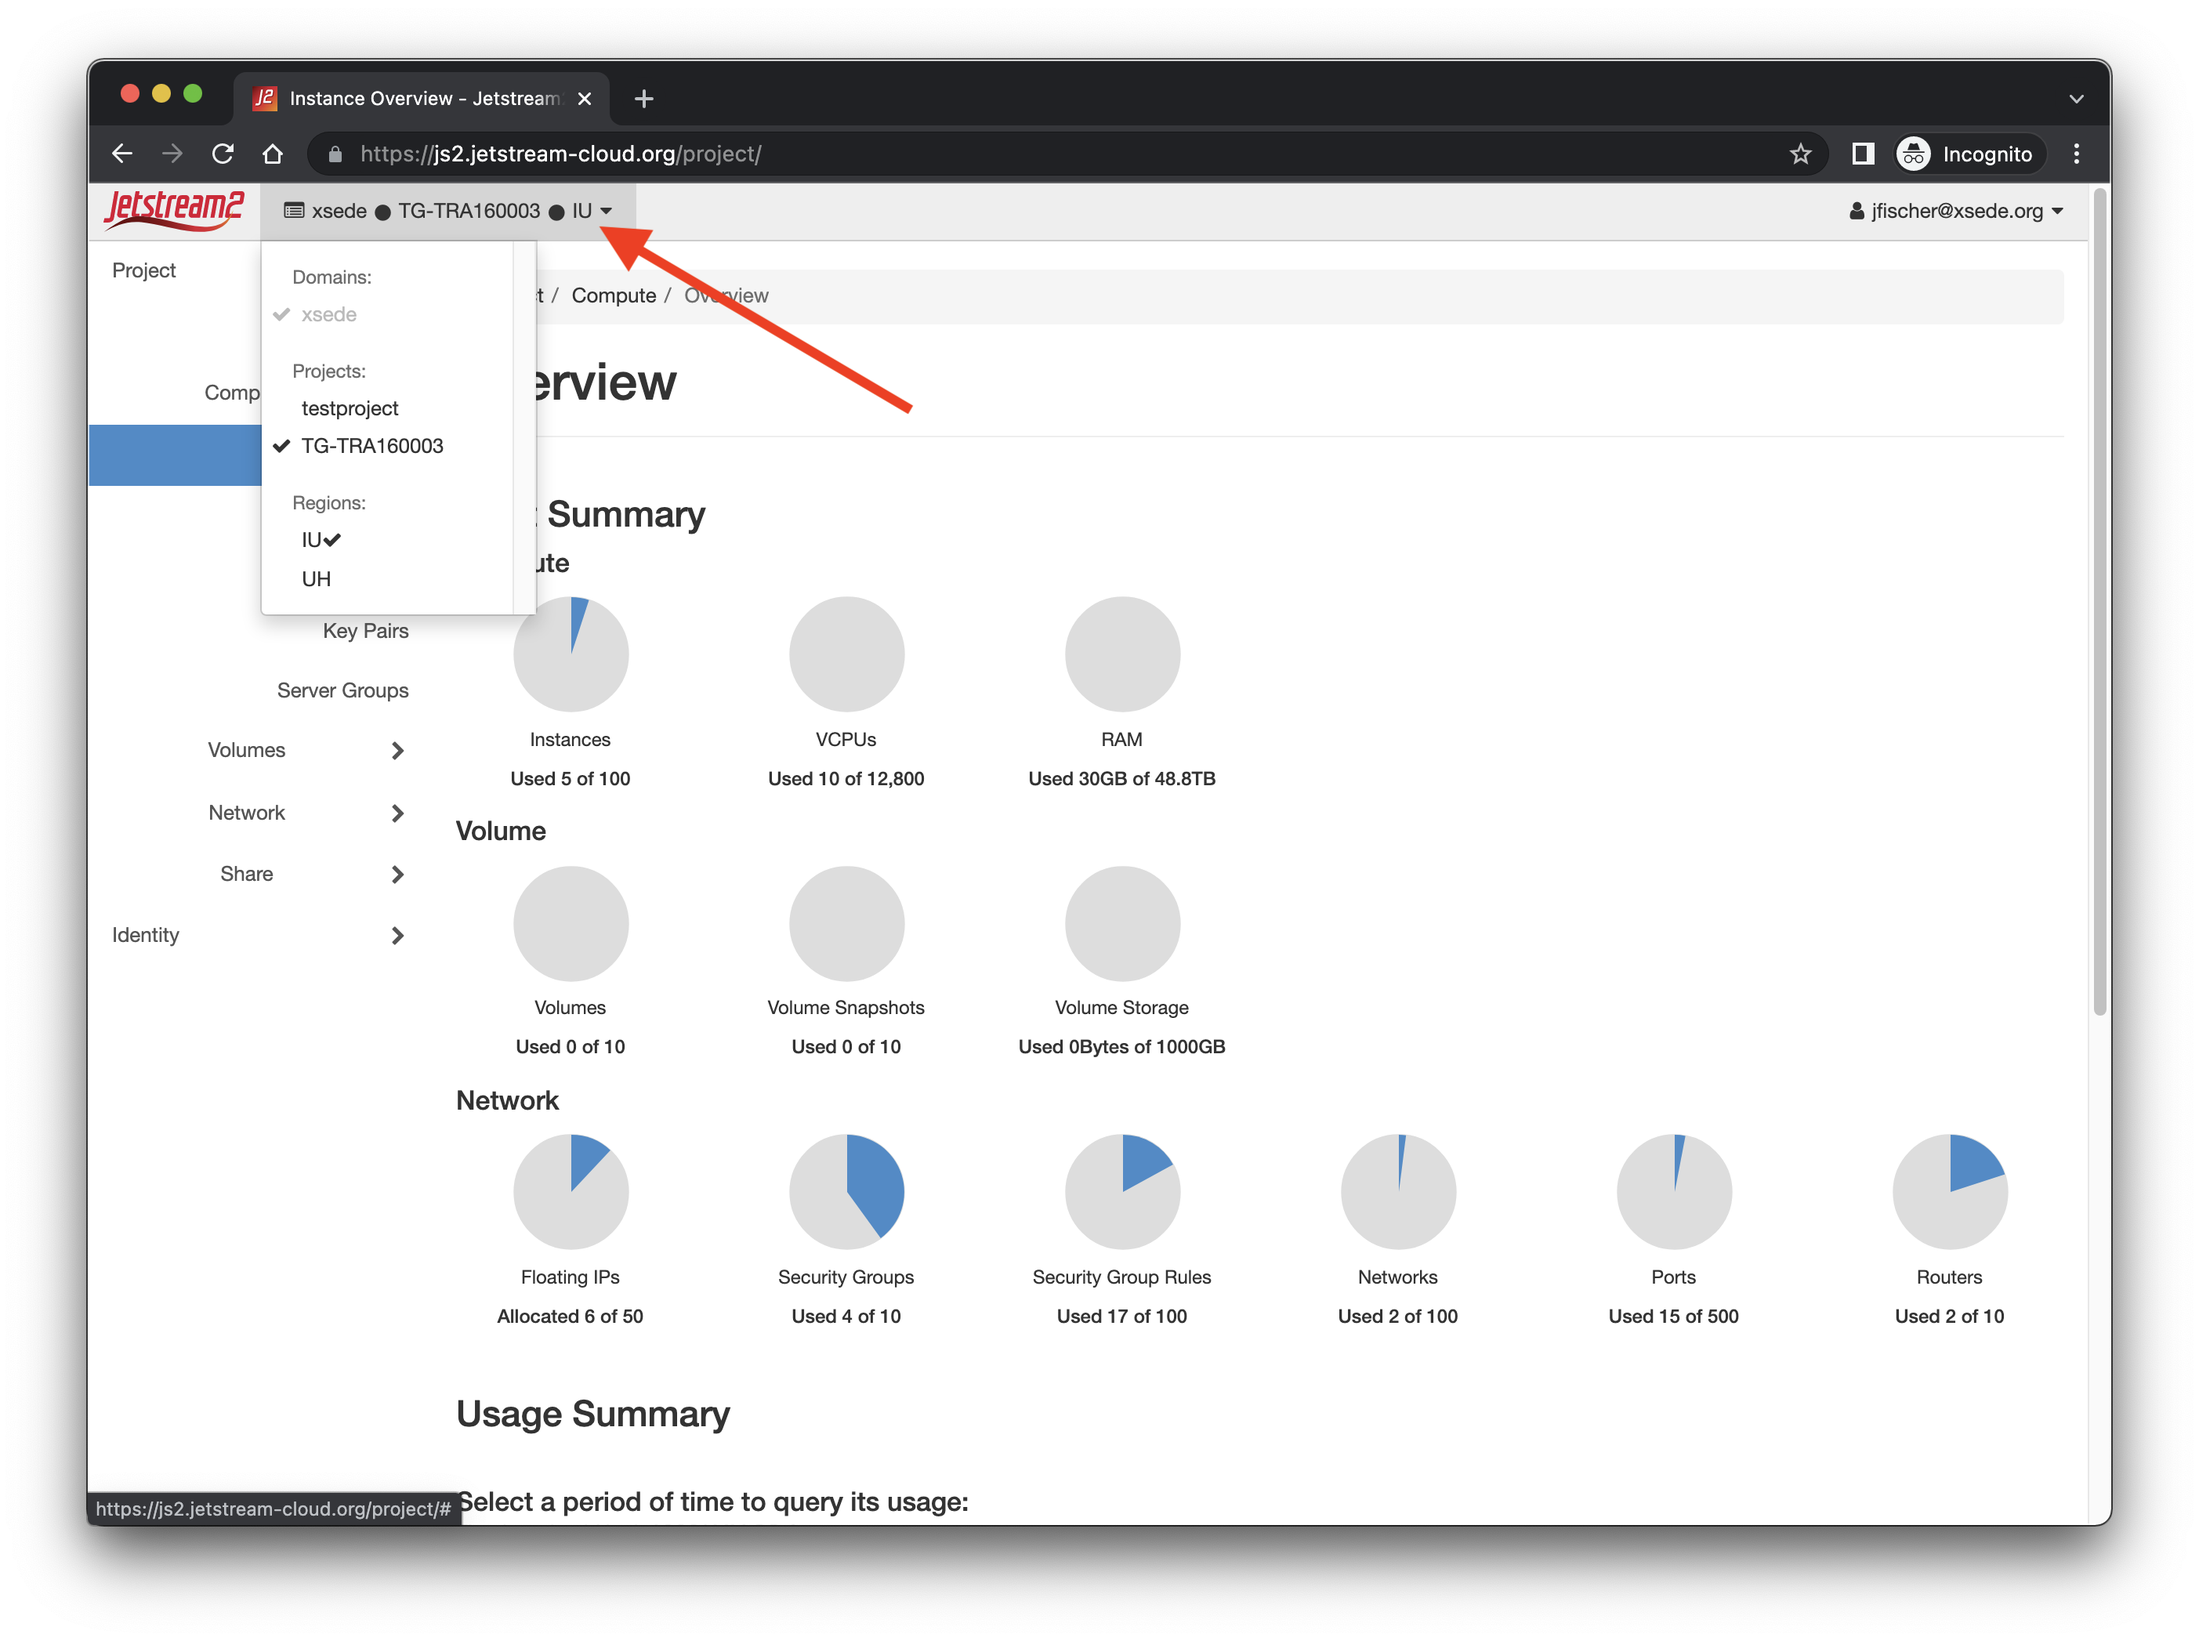
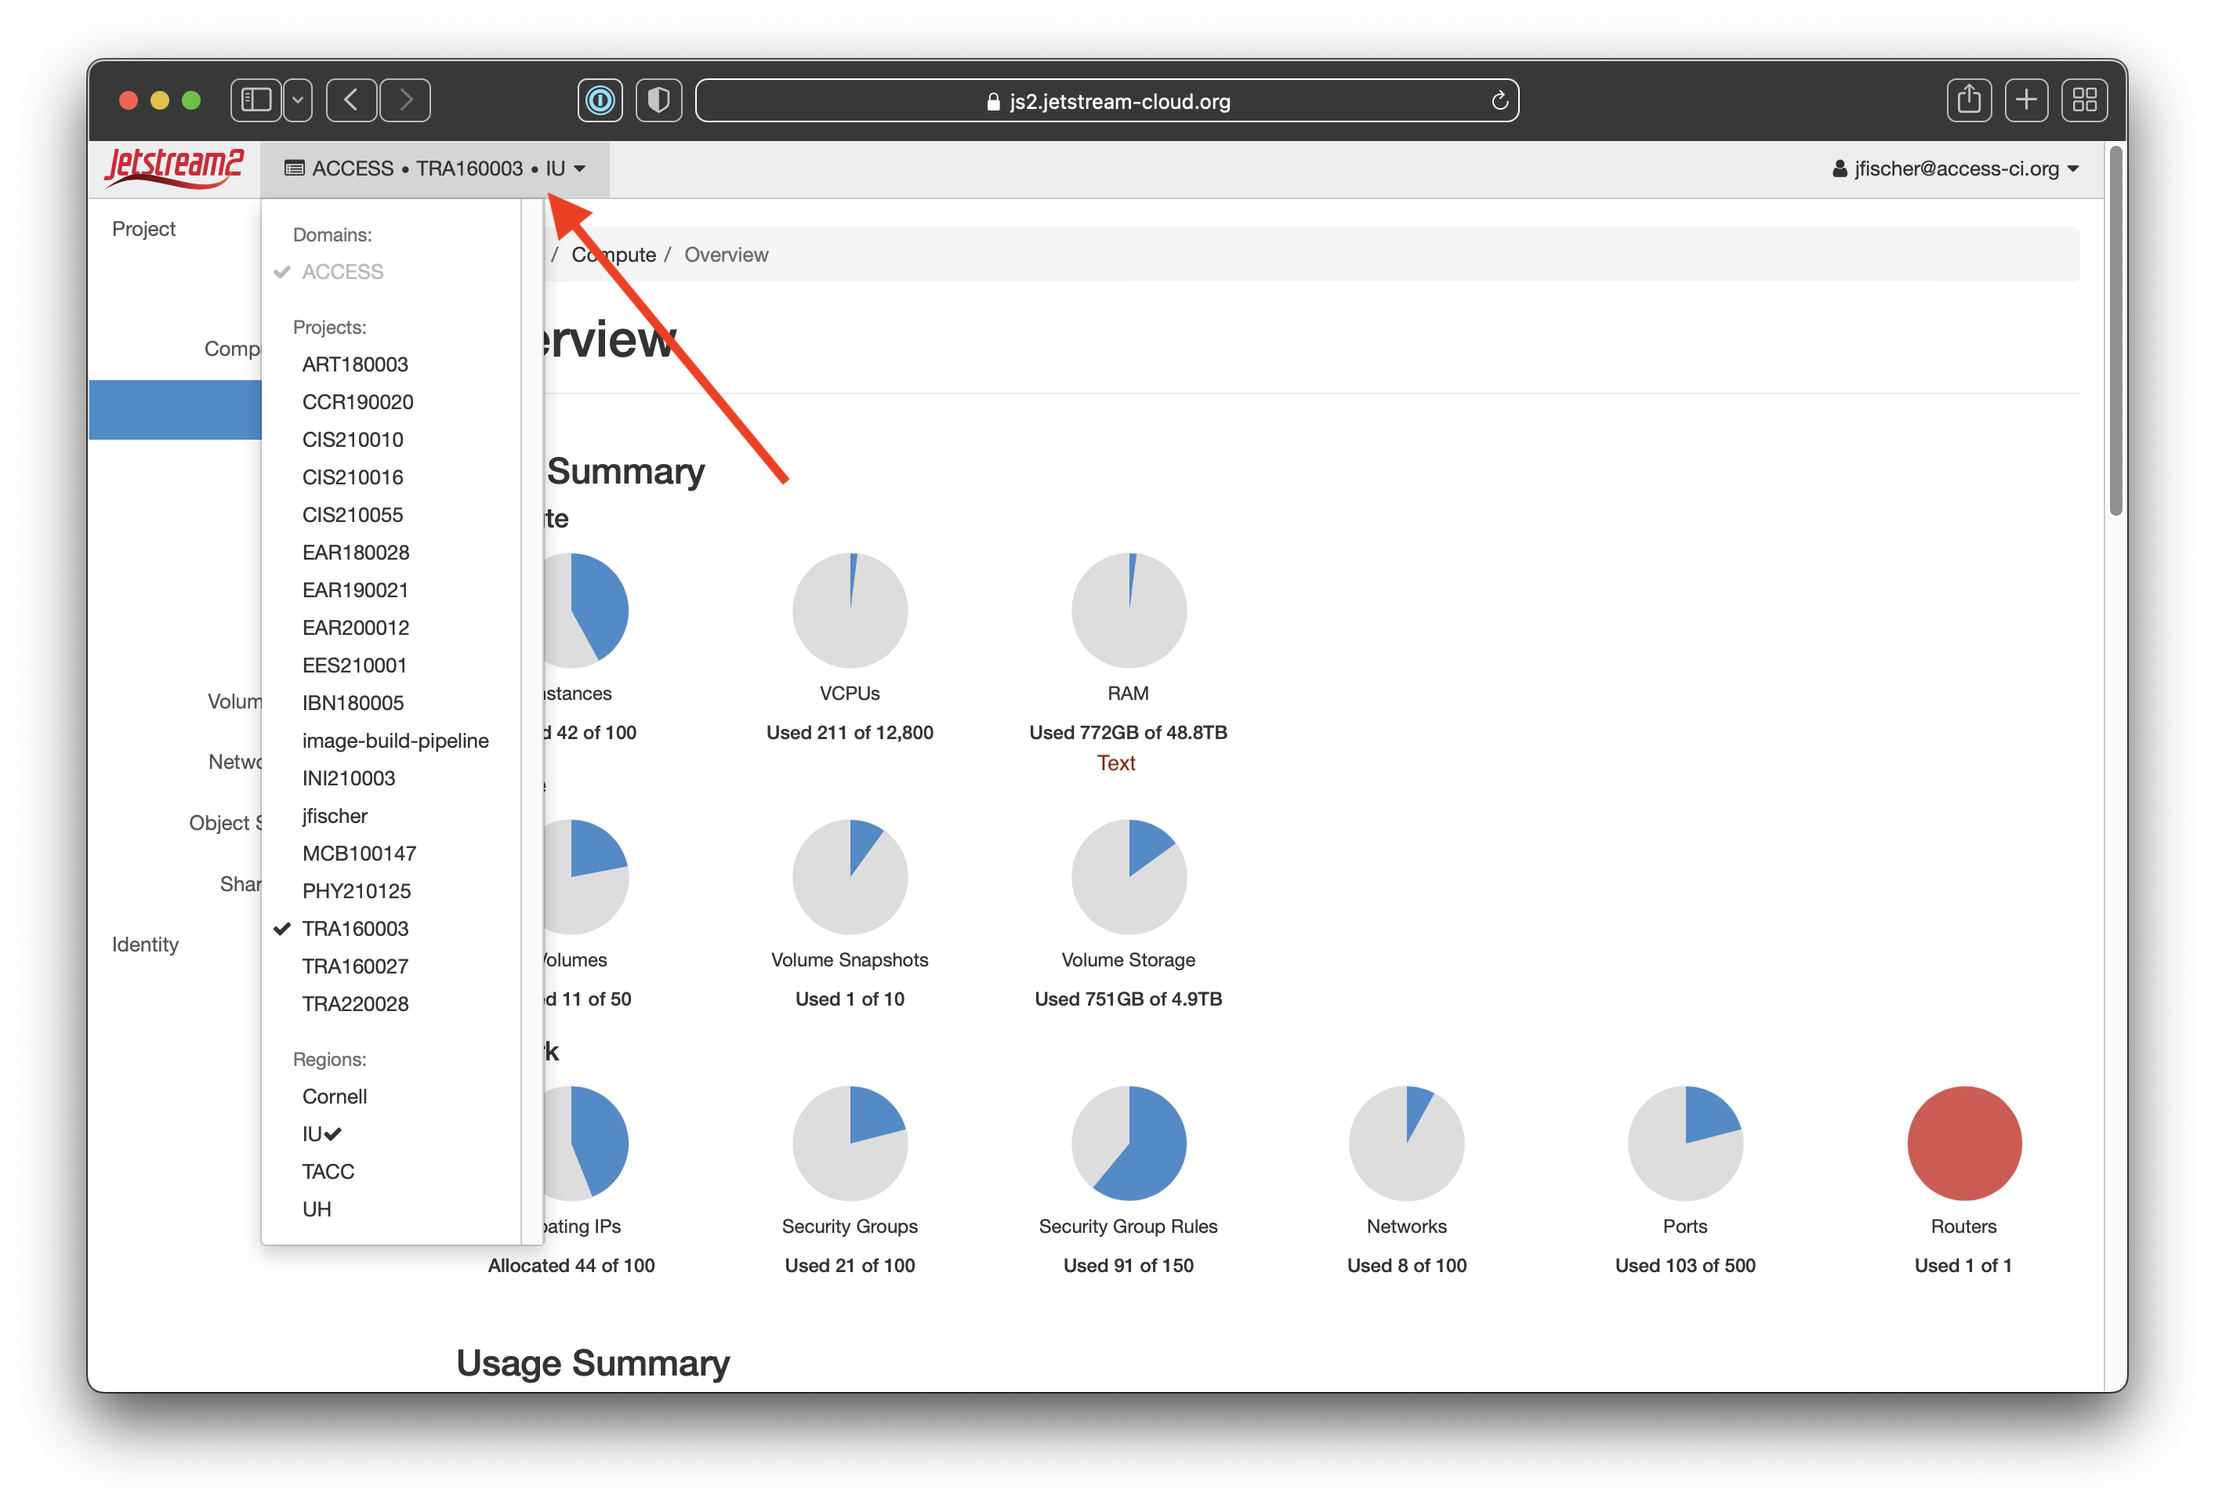
Updating openrc page for ACCESS

diff --git a/docs/ui/cli/openrc.md b/docs/ui/cli/openrc.md
@@ -24,24 +24,24 @@ The openrc generator on the Horizon right side (username) menu will NOT work pro
     <th>Screenshot</th>
   </tr>
   <tr>
-    <td style="width: 40%; word-wrap: break-word;" !important>Navigate to <a href="https://js2.jetstream-cloud.org" target=_blank>https://js2.jetstream-cloud.org</a><p><p>Make sure it says "XSEDE Globus Auth" in the Authenticate Using box.</td>
+    <td style="width: 40%; word-wrap: break-word;" !important>Navigate to <a href="https://js2.jetstream-cloud.org" target=_blank>https://js2.jetstream-cloud.org</a><p><p>Make sure it says "ACCESS CILogin" in the Authenticate Using box.</td>
     <td><a href="/images/JS2-Horizon-Login-Screen.png" target=_blank><img src="/images/JS2-Horizon-Login-Screen.png"></a>
     </td>
   </tr>
   <tr>
-    <td style="width: 40%; word-wrap: break-word;" !important>The first time you log in you'll be directed to a Globus page to permit authorization.<p>
-    <p>If you have linked institutional, Google, Orcid, or other credentials, you'll be able to use those to authenticate.<p> We know XSEDE credentials work correctly so we will show that in our example.<p> </td>
-    <td><a href="/images/JS2-Globus-Screen.png" target=_blank><img src="/images/JS2-Globus-Screen.png"></a>
+    <td style="width: 40%; word-wrap: break-word;" !important>The first time you log in you'll be directed to a CILogin page to permit authorization.<p>
+    <p>If you have linked institutional, Google, Orcid, or other credentials, you'll be able to use those to authenticate.<p> We know ACCESS credentials work correctly so we will show that in our example.<p> </td>
+    <td><a href="/images/JS2-CILogin-Screen.png" target=_blank><img src="/images/JS2-CILogin-Screen.png"></a>
     </td>
   </tr>
   <tr>
-    <td style="width: 40%; word-wrap: break-word;" !important>The next page should be the login screen for your credentials. We're showing the XSEDE login screen as our example.</td>
-    <td><a href="/images/JS2-XSEDE-Auth-Screen.png" target=_blank><img src="/images/JS2-XSEDE-Auth-Screen.png"></a>
+    <td style="width: 40%; word-wrap: break-word;" !important>The next page should be the login screen for your credentials. We're showing the ACCESS login screen as our example.</td>
+    <td><a href="/images/JS2-CILogin-Auth-Screen.png" target=_blank><img src="/images/JS2-CILogin-Auth-Screen.png"></a>
     </td>
   </tr>
   <tr>
     <td style="width: 40%; word-wrap: break-word;" !important>If you're using two-factor auth with your credentials as XSEDE does, you'll likely get a Duo or Authenticator screen here.</td>
-    <td><a href="/images/JS2-XSEDE-Duo-Screen.png" target=_blank><img src="/images/JS2-XSEDE-Duo-Screen.png"></a>
+    <td><a href="/images/JS2-Access-Duo-Screen.png" target=_blank><img src="/images/JS2-Access-Duo-Screen.png"></a>
     </td>
   </tr>
   <tr>
@@ -50,7 +50,7 @@ The openrc generator on the Horizon right side (username) menu will NOT work pro
     </td>
   </tr>
   <tr>
-    <td style="width: 40%; word-wrap: break-word;" !important>As application credentials are unique to each allocation, if you are on multiple XSEDE allocations, you'll want to verify you're using the correct one and change to the correct one if you are not. <p><p>You do that by clicking at the top left next to the Jetstream2 logo where it has "XSEDE * AAA000000 * IU". That will show allocations under "Projects".</td>
+    <td style="width: 40%; word-wrap: break-word;" !important>As application credentials are unique to each allocation, if you are on multiple ACCESS allocations, you'll want to verify you're using the correct one and change to the correct one if you are not. <p><p>You do that by clicking at the top left next to the Jetstream2 logo where it has "ACCESS * AAA000000 * IU". That will show allocations under "Projects".</td>
     <td><a href="/images/JS2-Horizon-Change-Projects.png" target=_blank><img src="/images/JS2-Horizon-Change-Projects.png"></a>
     </td>
   </tr>
@@ -66,7 +66,7 @@ The openrc generator on the Horizon right side (username) menu will NOT work pro
     </td>
   </tr>
   <tr>
-    <td style="width: 40%; word-wrap: break-word;" !important>When you hit "Create Application Credential" it will then generate the credential and bring up a confirmation box. Please make sure to save the credential ID and secret if you need them for things other than the openrc. <p><p>To get the openrc for CLI access, please click the "Download openrc file" button referenced by the red arrow in the screenshot. That will download a plain text file for use with the Openstack CLI client <p><p>We recommend giving your new openrc file a descriptive name (e.g. openrc-TRA111111.sh, using the XSEDE project name or some other meaningful description.)</td>
+    <td style="width: 40%; word-wrap: break-word;" !important>When you hit "Create Application Credential" it will then generate the credential and bring up a confirmation box. Please make sure to save the credential ID and secret if you need them for things other than the openrc. <p><p>To get the openrc for CLI access, please click the "Download openrc file" button referenced by the red arrow in the screenshot. That will download a plain text file for use with the Openstack CLI client <p><p>We recommend giving your new openrc file a descriptive name (e.g. openrc-TRA111111.sh, using the ACCESS project name or some other meaningful description.)</td>
     <td><a href="/images/JS2-Created-App-Cred.png" target=_blank><img src="/images/JS2-Created-App-Cred.png"></a>
     </td>
   </tr>
